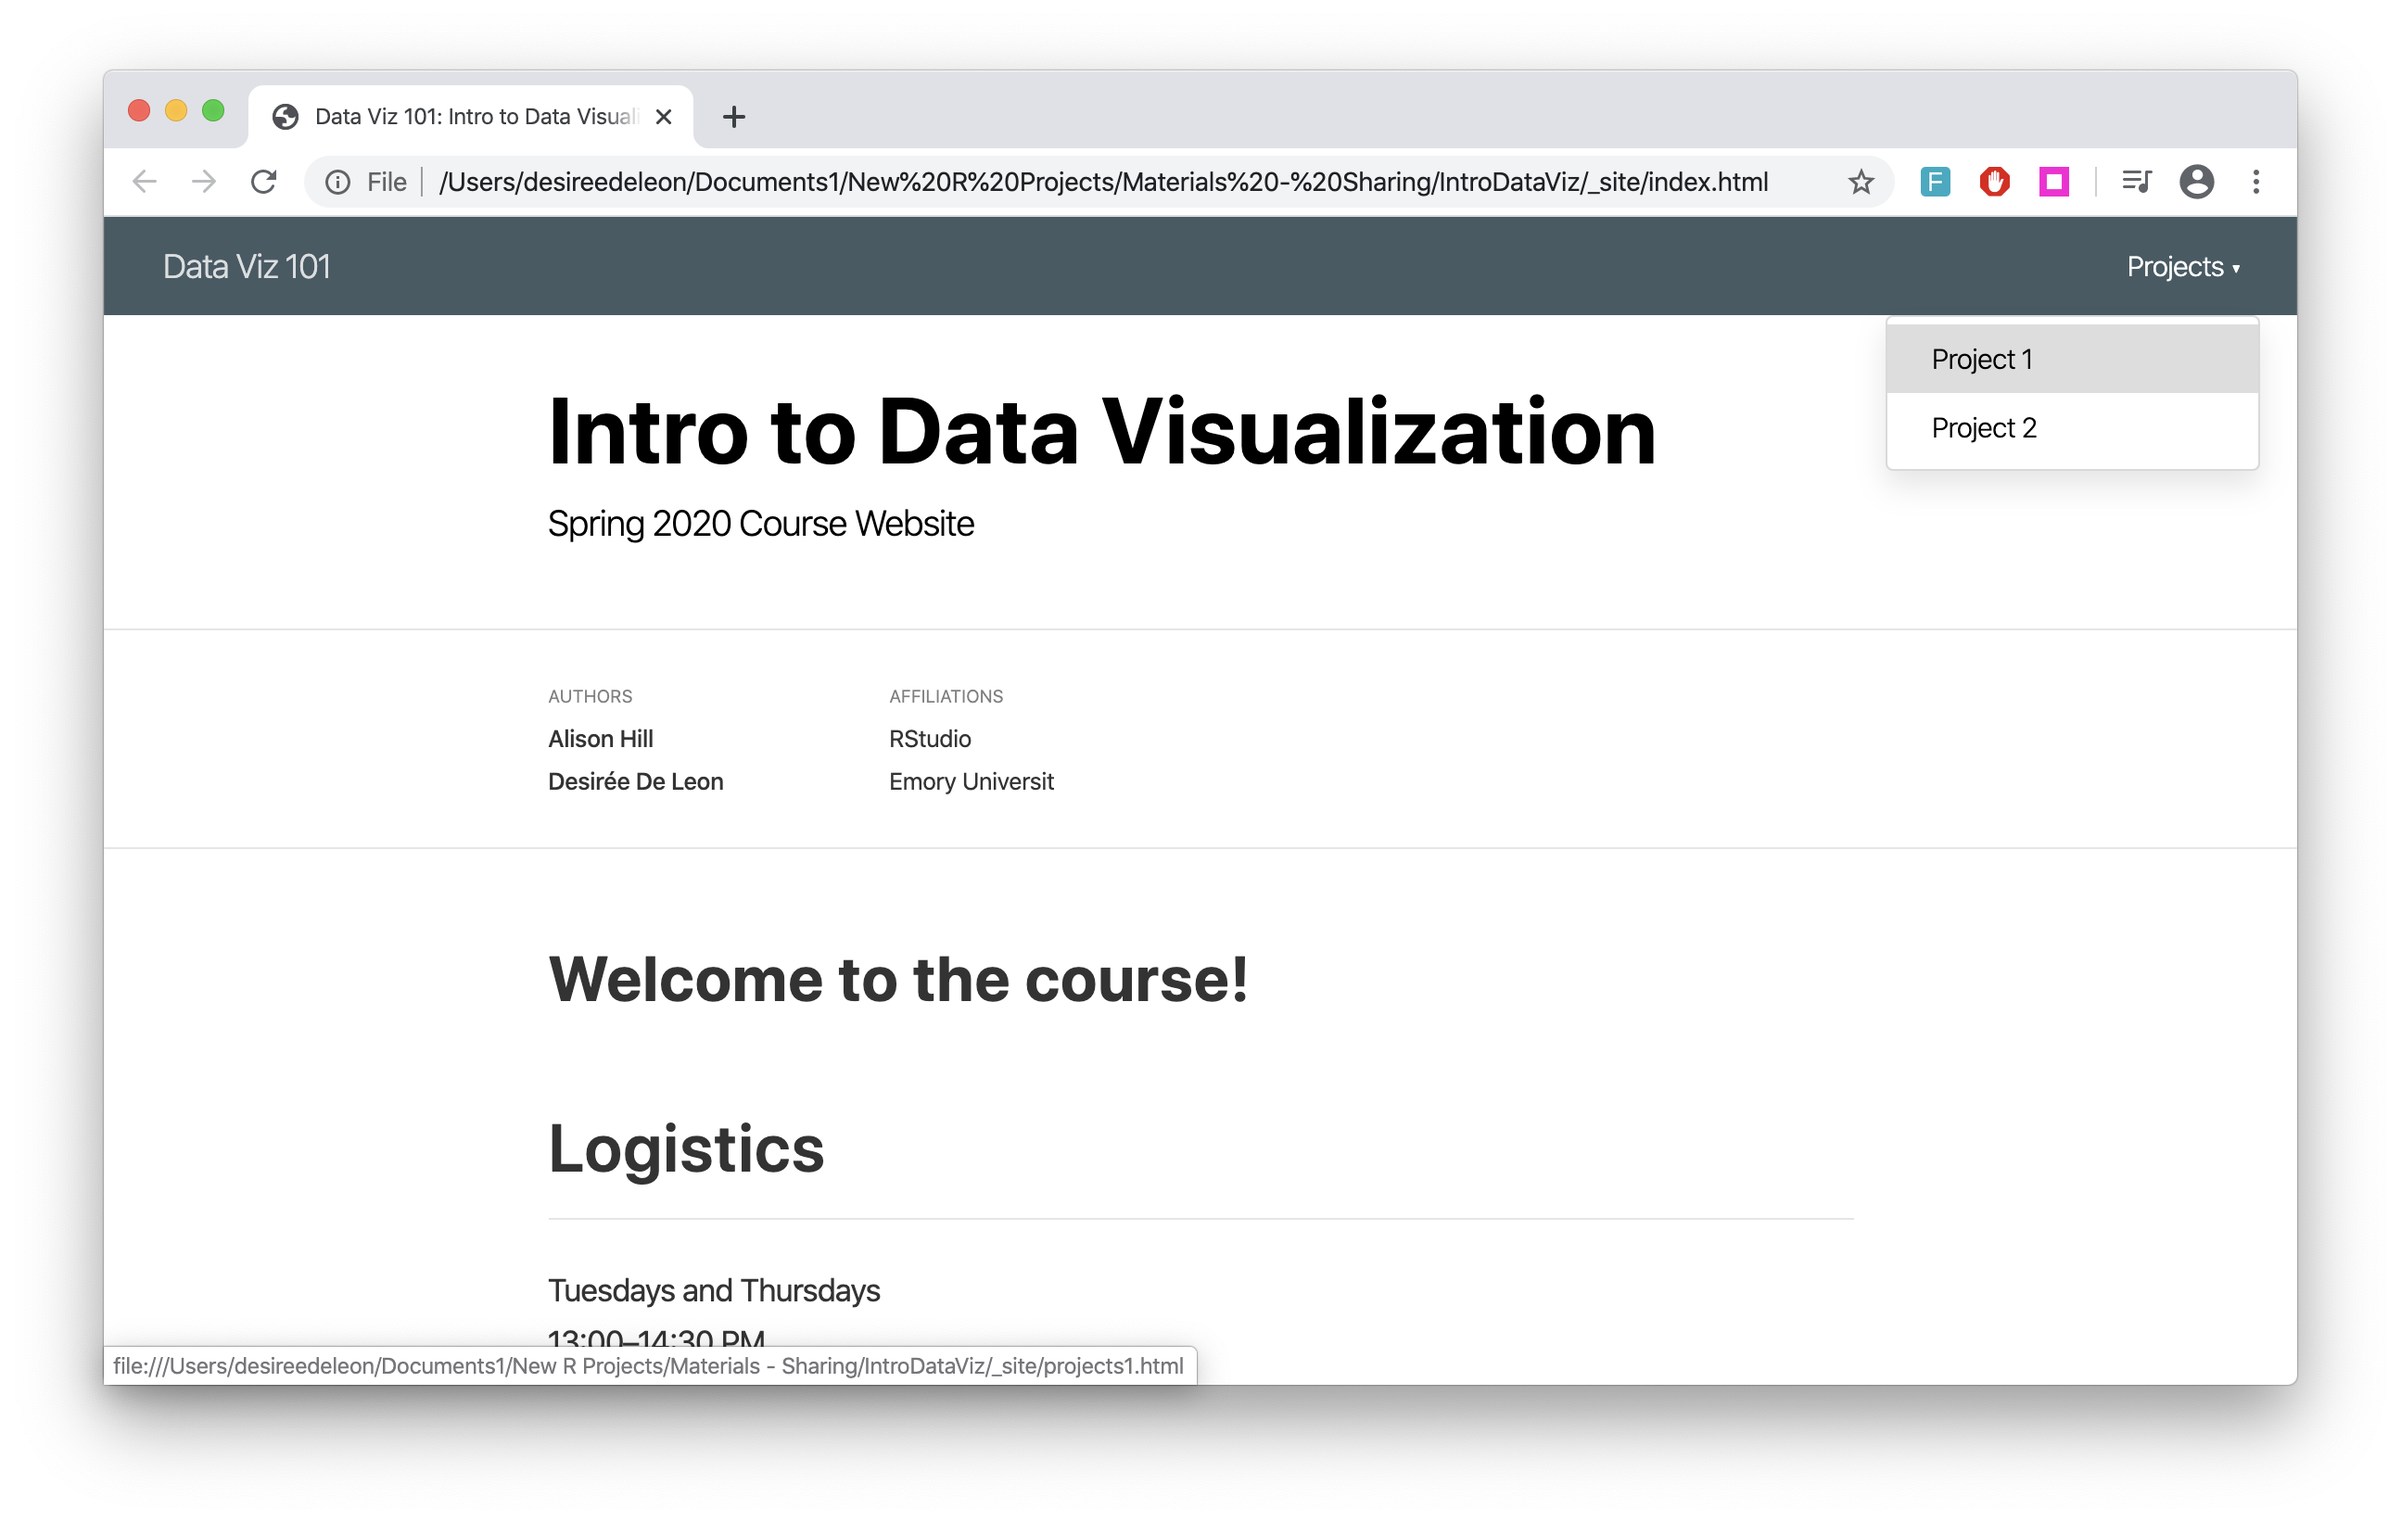
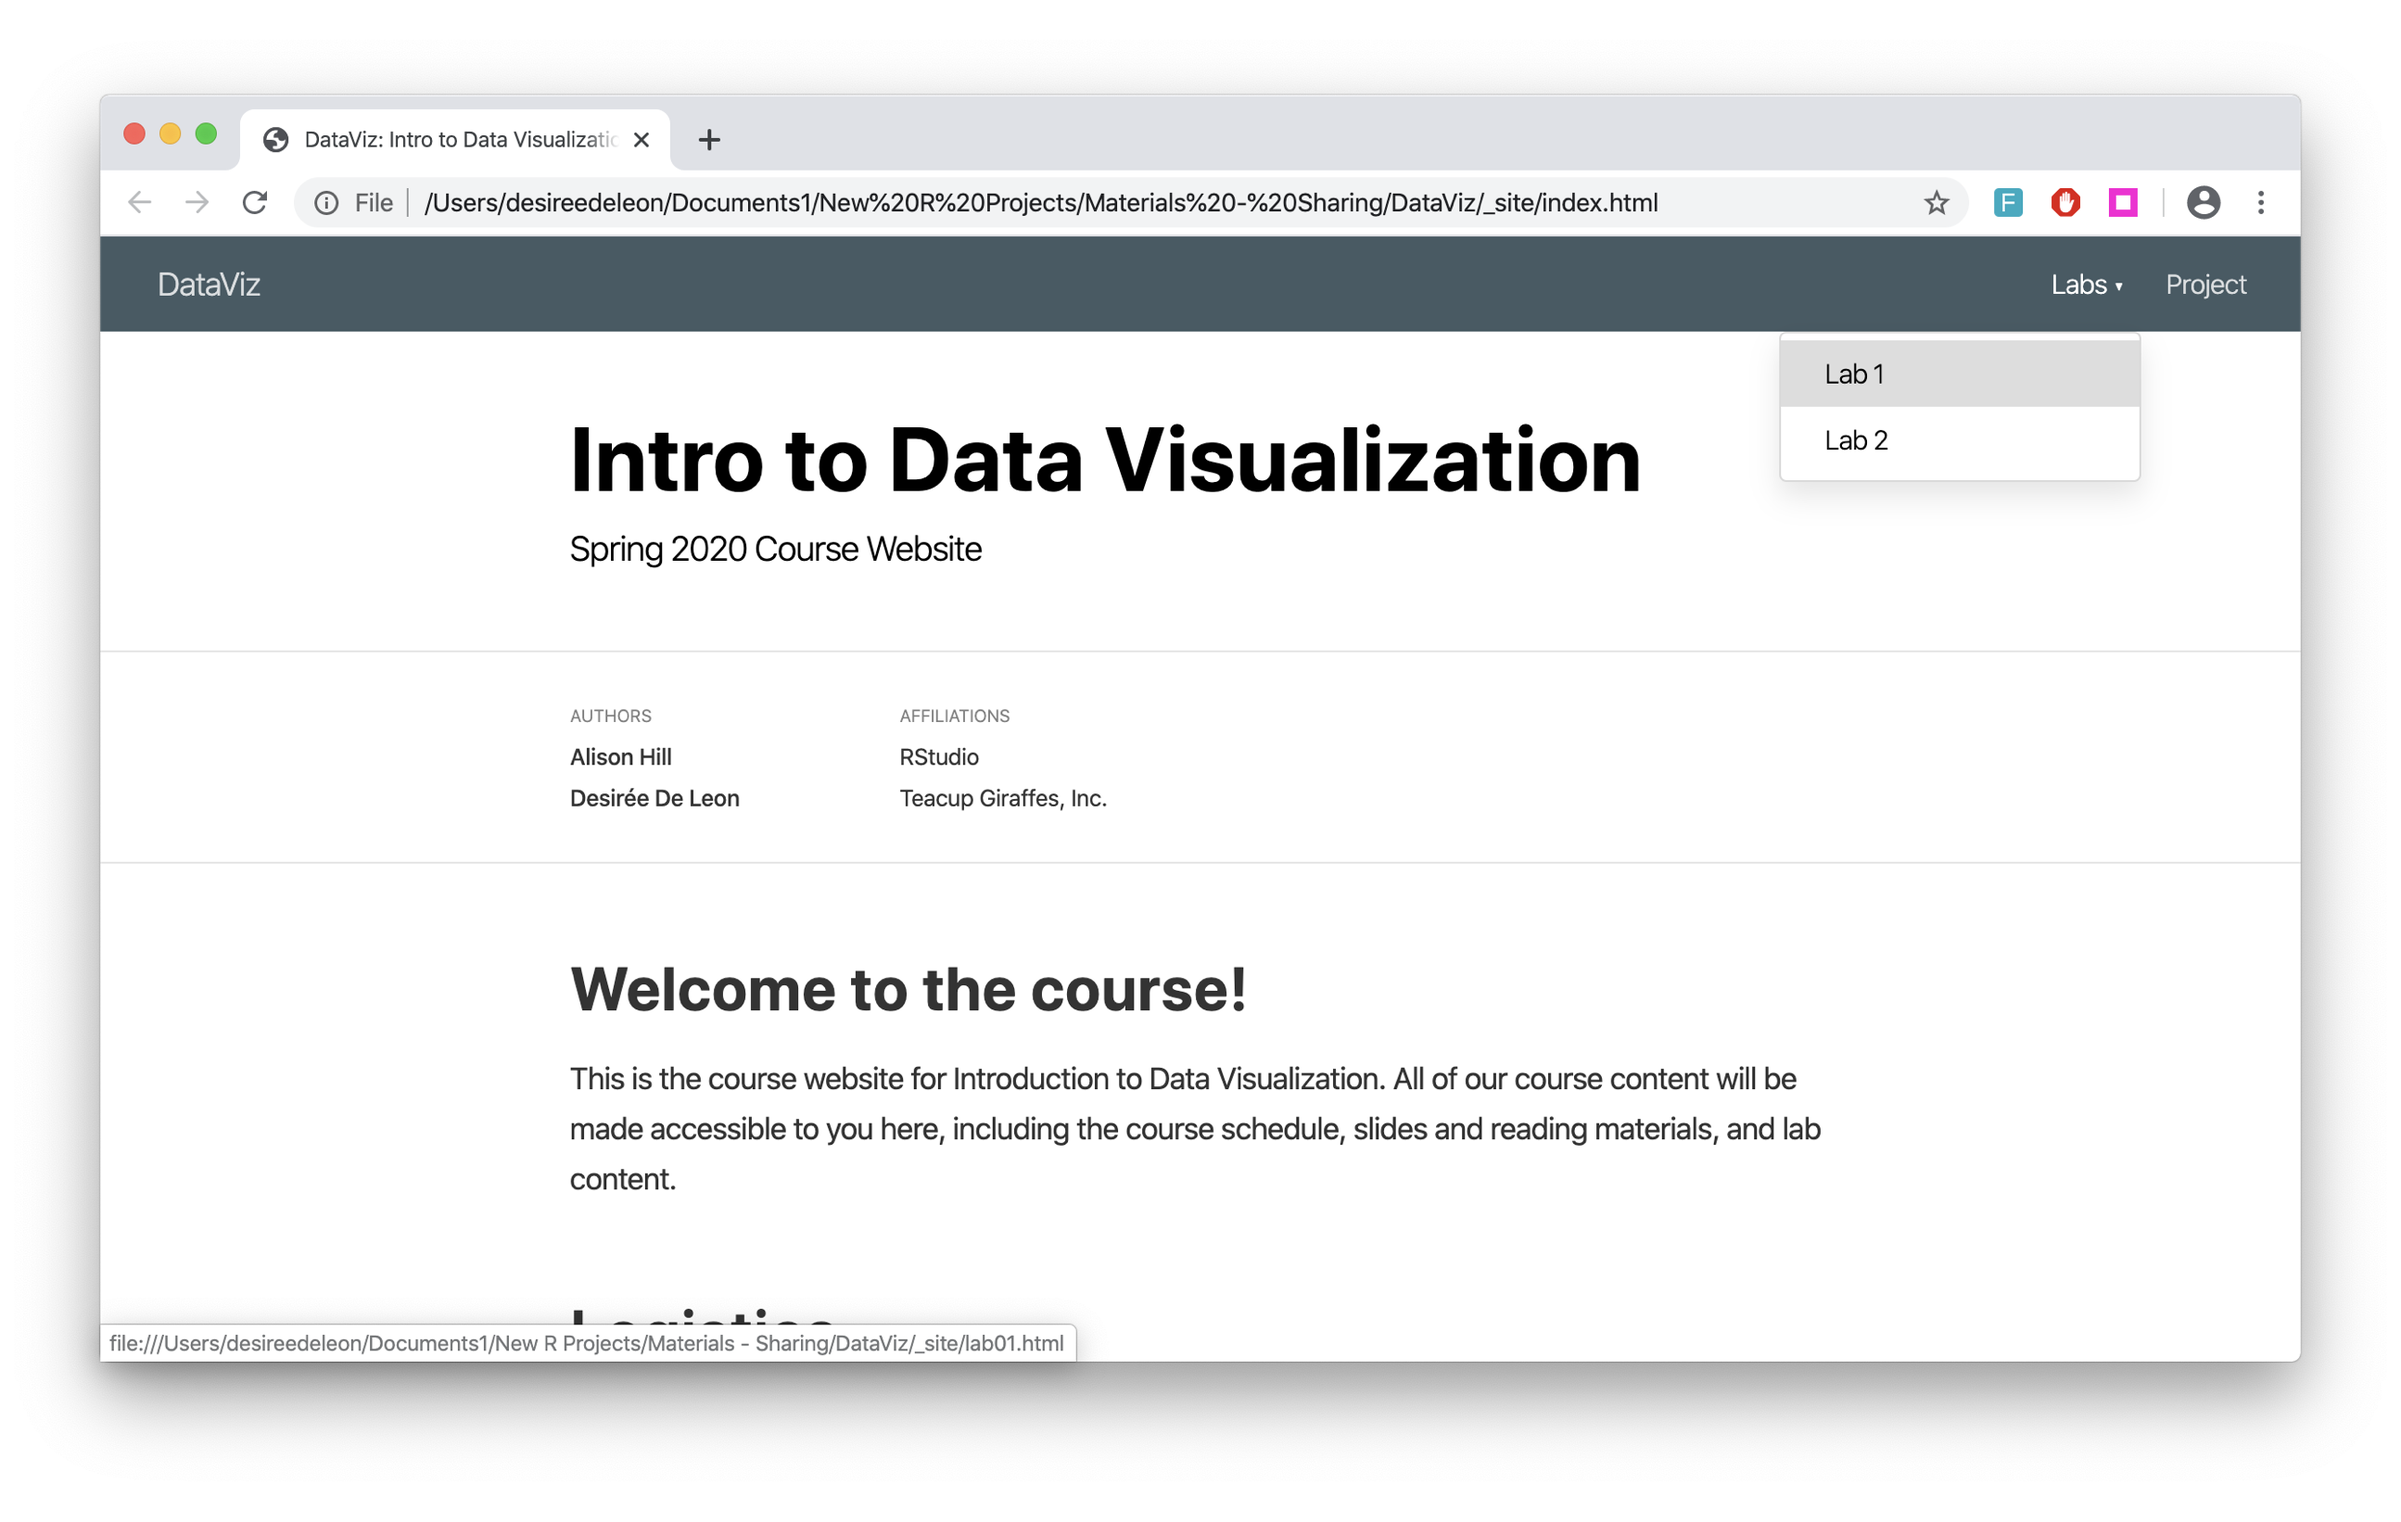
Updates screenshots

diff --git a/index.html b/index.html
@@ -1664,7 +1664,7 @@ This creates a `_site` folder for our HTML files.
   position: absolute; 
   width: 100%; 
   top: 0px;
-  left: 0px;
+  right: 70px;
 "&gt;
 
 
@@ -1748,10 +1748,11 @@ Including a title and short description is nice too.
 [*note*: `site: distill::website` is only necessary if you wanna make the blog later]
 
 ---
-class: middle
 background-image: url(images/rawpixel/bunch-balloons-rmd2.jpg)
 background-position: right
 background-size: contain
+
+## .hidden[Inside the `_site.yml`]
 
 .left-column[
 
@@ -1770,7 +1771,8 @@ background-size: contain
 
 ???
 
-Next we move on to the _site.yml page. It's still for site configuration. This should sound a bit familiar...
+Next we move on to the `_site.yml` page. 
+It's still for site configuration. This should sound a bit familiar...
 
 ---
 ## Inside the `_site.yml`
@@ -1794,17 +1796,17 @@ Next we move on to the _site.yml page. It's still for site configuration. This s
 
 
 ```r
-title: Data Viz
+title: DataViz 
 navbar:
   right:
     - text: Labs
-      menu: 
+      menu:
       - text: Lab 1
         href: lab01.html
       - text: Lab 2
         href: lab02.html
     - text: Project
-      menu: project.html
+      href: project.html
 *output: distill::distill_article
 ```
 ]
@@ -1884,6 +1886,7 @@ Each post is itself its own page, and it doesn't need to be built into the navig
 .right-column[
 ```
 ---
+title: Schedule
 listing: posts
 ---
 ```
@@ -1891,7 +1894,7 @@ listing: posts
 
 ???
 
-Instead, we create a listing page -- an R Markdown document whose only job is to have this listing YAML key and value.
+Instead, we create a listing page -- an R Markdown document whose only job is to have a title and a listing YAML key and value.
 
 We'll call our "schedule".
 
@@ -2041,11 +2044,28 @@ Unfortunately, each posts **does** have to be knit individually.
 
 ???
 
-Finally, you'll need to build once more, so that the listing page will be updated with the new posts. And now you're ready to share your site.
+Finally, you'll need to build once more, so that the listing page will be updated with the new posts.
 
 ---
+class: middle center
 
-Screenshot drag and drop _site/ to netlify
+## A minimal "blog" page
+
+![](images/screenshots/distill-min-blog.png)
+
+???
+
+Here's what this "blog page" looks like when it's rendered.
+
+---
+## Sharing your site
+
+&lt;img src="images/screenshots/drop-distill.png" width="699" /&gt;
+
+
+???
+Which means that we're now about done with Distill, and we're ready to share using the ol' drag n drop. 
+
 
 ---
 class: middle
@@ -2755,6 +2775,42 @@ if (window.HTMLWidgets) slideshow.on('afterShowSlide', function (slide) {
     deleted = true;
   });
 })();
+(function() {
+  "use strict"
+  /* Replace <script> tags in slides area to make them executable
+   *
+   * Runs after post-processing of markdown source into slides and replaces only
+   * <script>s on the last slide of continued slides using the .has-continuation
+   * class added by xaringan. Finally, any <script>s in the slides area that
+   * aren't executed are commented out.
+   */
+  var scripts = document.querySelectorAll(
+    '.remark-slides-area .remark-slide-container:not(.has-continuation) script'
+  );
+  if (!scripts.length) return;
+  for (var i = 0; i < scripts.length; i++) {
+    var s = document.createElement('script');
+    var code = document.createTextNode(scripts[i].textContent);
+    s.appendChild(code);
+    scripts[i].parentElement.replaceChild(s, scripts[i]);
+  }
+  var scriptsNotExecuted = document.querySelectorAll(
+    '.remark-slides-area .remark-slide-container.has-continuation script'
+  );
+  if (!scriptsNotExecuted.length) return;
+  for (var i = 0; i < scriptsNotExecuted.length; i++) {
+    var comment = document.createComment(scriptsNotExecuted[i].outerHTML)
+    scriptsNotExecuted[i].parentElement.replaceChild(comment, scriptsNotExecuted[i])
+  }
+})();
+(function() {
+  var links = document.getElementsByTagName('a');
+  for (var i = 0; i < links.length; i++) {
+    if (/^(https?:)?\/\//.test(links[i].getAttribute('href'))) {
+      links[i].target = '_blank';
+    }
+  }
+})();
 // adds .remark-code-has-line-highlighted class to <pre> parent elements
 // of code chunks containing highlighted lines with class .remark-code-line-highlighted
 (function(d) {
@@ -2772,17 +2828,6 @@ if (window.HTMLWidgets) slideshow.on('afterShowSlide', function (slide) {
   }
   preParents.forEach(p => p.classList.add("remark-code-has-line-highlighted"));
 })(document);</script>
-
-<script>
-(function() {
-  var links = document.getElementsByTagName('a');
-  for (var i = 0; i < links.length; i++) {
-    if (/^(https?:)?\/\//.test(links[i].getAttribute('href'))) {
-      links[i].target = '_blank';
-    }
-  }
-})();
-</script>
 
 <script>
 slideshow._releaseMath = function(el) {
